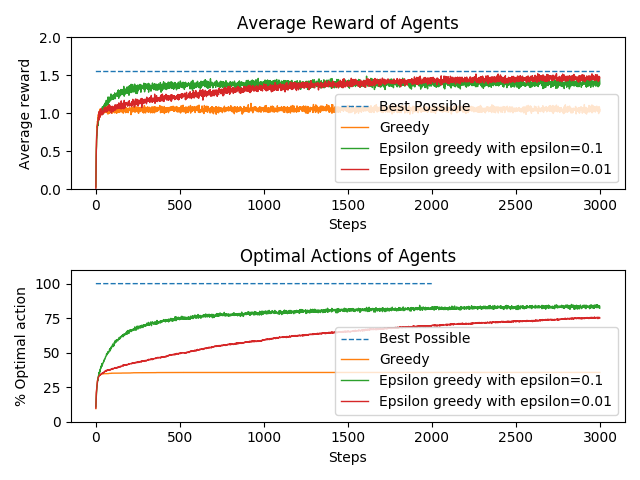
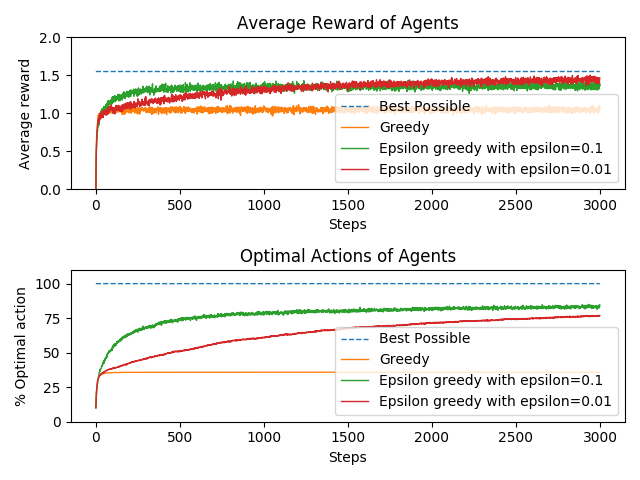
fix tiny error

diff --git a/train.py b/train.py
@@ -55,7 +55,7 @@ class Train(object):
         plt.ylim(0, 2.0)
 
         plt.subplot(2, 1, 2)
-        plt.plot([100 for _ in range(self.experiments)], linestyle="--", lw=1)
+        plt.plot([100 for _ in range(self.pulls)], linestyle="--", lw=1)
 
         legend = ['Best Possible']
         for key, value in self.values.items():
